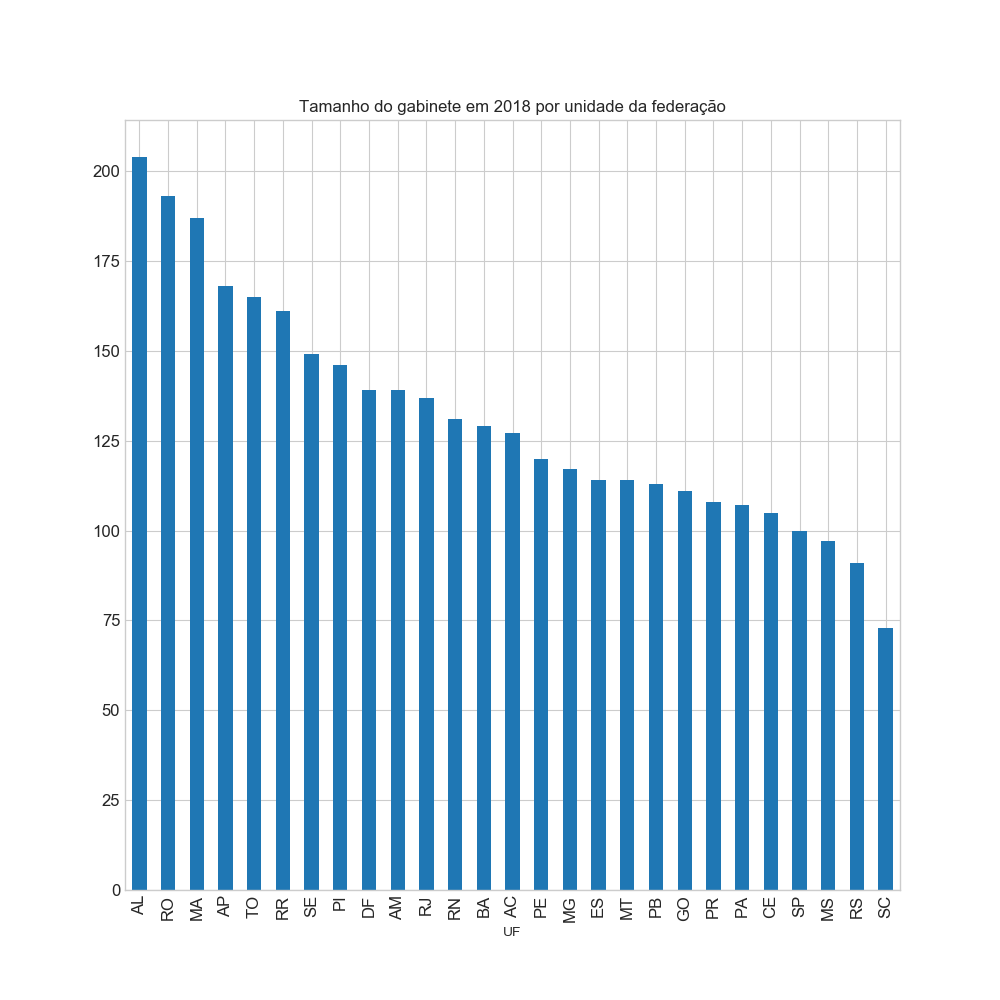
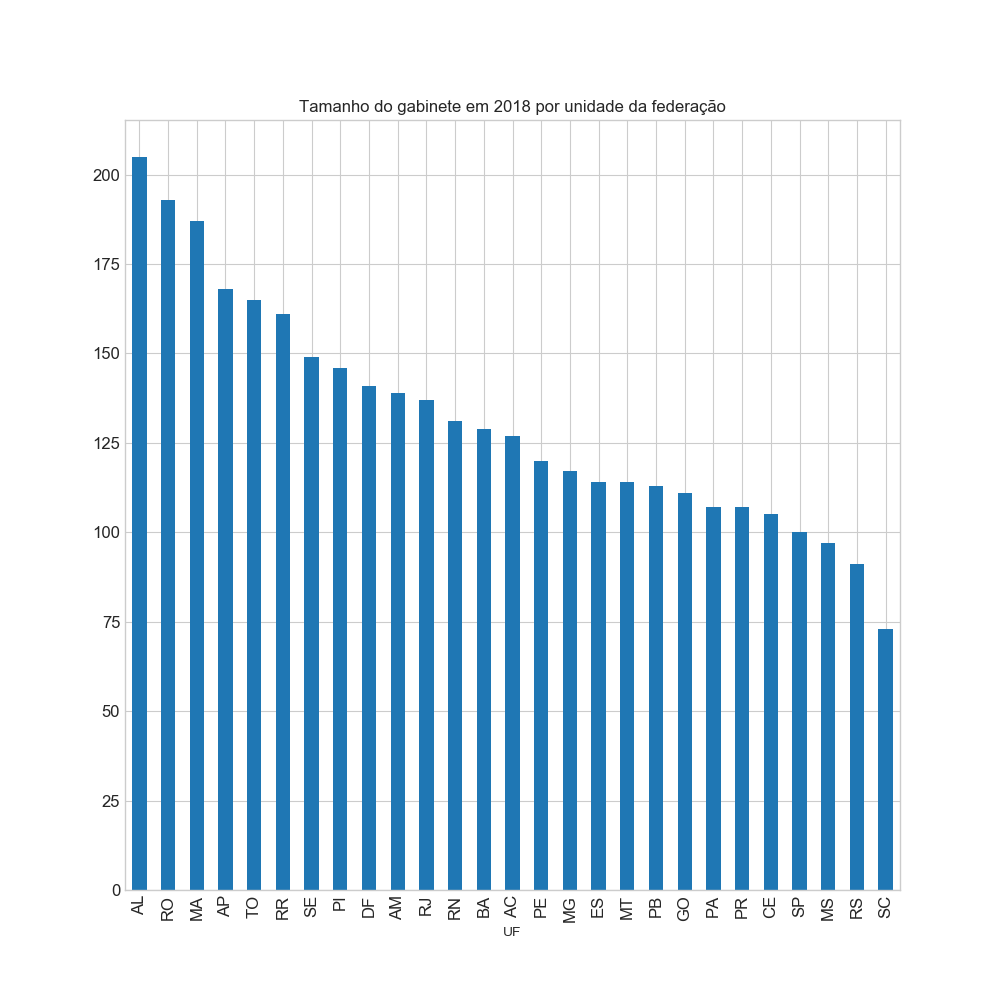
Atualização de dados do Senado

diff --git a/index.html b/index.html
@@ -21,9 +21,9 @@
       <div class="row"><b class="SenadoSubTitle">Informações de despesas de senadores</b><br></div>
       <div class="row"><b class="SenadoSubTitle">Dados coletados em 
 <!--Data-->       
-28/05/2018 às 
+29/05/2018 às 
 <!--Hora-->
-21:05:47      </b><br></div>
+11:09:01      </b><br></div>
       <br>
       <div class="TextoImagem">
         <center>
@@ -202,7 +202,7 @@
               <td align='left'>Titular</td>
               <td align='middle'>AL</td>
               <td align='left'>PP</td>
-              <td align='right'>65 pessoas</td>
+              <td align='right'>66 pessoas</td>
               <td align='right'>40 meses</td>
             </tr>
             <tr>
@@ -422,7 +422,7 @@
               <td align='left'>1º Suplente</td>
               <td align='middle'>DF</td>
               <td align='left'>PROS</td>
-              <td align='right'>99 pessoas</td>
+              <td align='right'>101 pessoas</td>
               <td align='right'>0 meses</td>
             </tr>
             <tr>
@@ -785,7 +785,7 @@
               <td align='left'>Titular</td>
               <td align='middle'>PR</td>
               <td align='left'>MDB</td>
-              <td align='right'>31 pessoas</td>
+              <td align='right'>30 pessoas</td>
               <td align='right'>40 meses</td>
             </tr>
             <tr>
